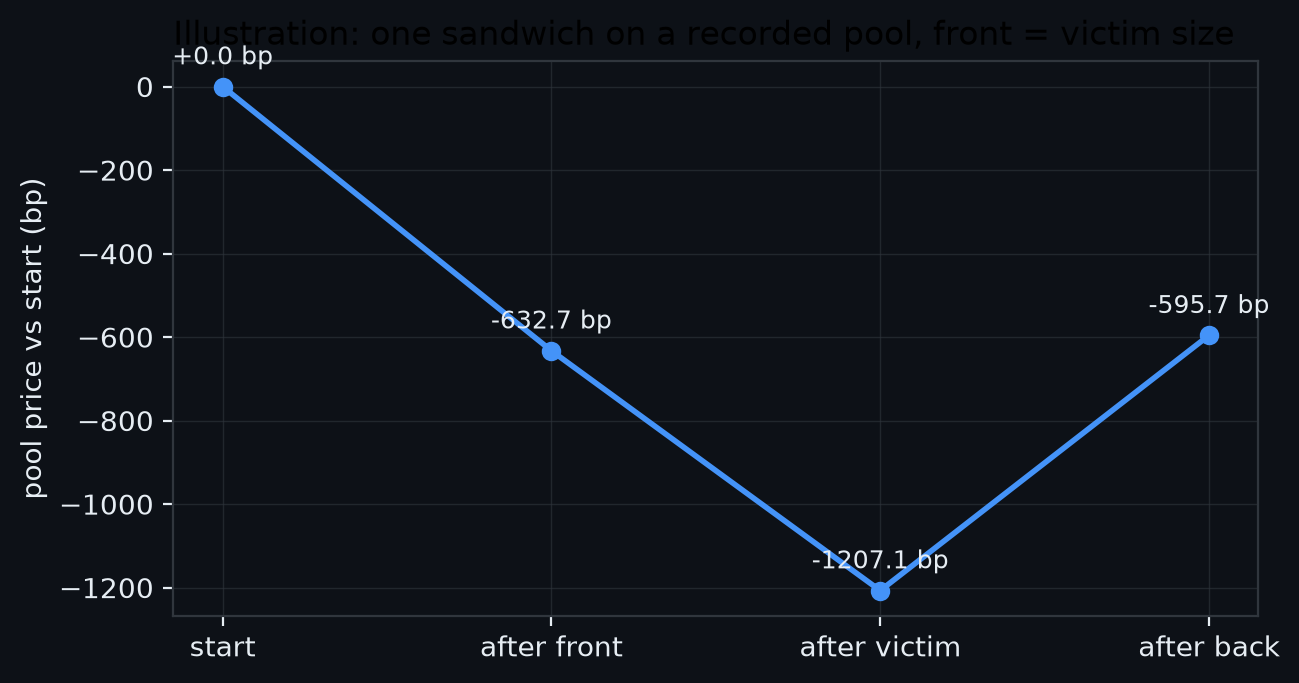
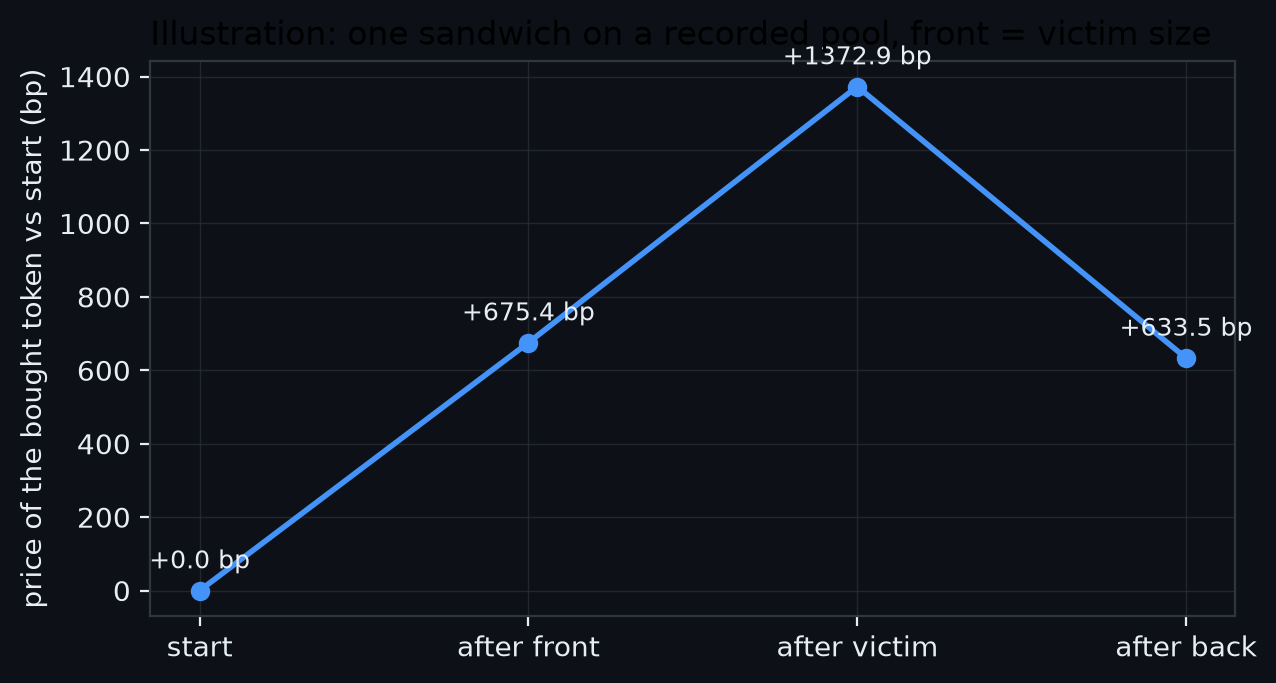
fix(figures): correct sandwich reverse-leg price in mechanism plots
Changed 5 file(s) [docs]

  - docs/research/figures/readme/path-dark.png
  - docs/research/figures/readme/path-light.png
  - docs/research/figures/readme/v3range-dark.png
  - docs/research/figures/readme/v3range-light.png
  - scripts/figures/mechanism.py

5 files changed, 7 insertions(+), 7 deletions(-)

diff --git a/scripts/figures/mechanism.py b/scripts/figures/mechanism.py
@@ -30,10 +30,10 @@ def sandwich_path(th: dict, name: str) -> None:
     front = victim
     x1, y1, got = _buy(x0, y0, front)
     x2, y2, _ = _buy(x1, y1, victim)
-    xb, yb, _ = _buy(y2, x2, got)  # sell the front's tokens back into the pool (reverse leg)
-    price = lambda x, y: y / x  # noqa: E731
+    yb, xb, _ = _buy(y2, x2, got)  # sell the front's tokens back into the pool (reverse leg)
+    price = lambda x, y: x / y  # noqa: E731
     labels = ["start", "after front", "after victim", "after back"]
-    px = [price(x0, y0), price(x1, y1), price(x2, y2), price(yb, xb)]
+    px = [price(x0, y0), price(x1, y1), price(x2, y2), price(xb, yb)]
     rel = [(p / px[0] - 1) * 1e4 for p in px]
     fig, ax = _frame(th)
     ax.plot(range(4), rel, color=th["a"], lw=2, marker="o")
@@ -41,7 +41,7 @@ def sandwich_path(th: dict, name: str) -> None:
         ax.annotate(f"{r:+.1f} bp", (i, r), textcoords="offset points", xytext=(0, 8),
                     ha="center", color=th["fg"], fontsize=9)
     ax.set_xticks(range(4), labels)
-    ax.set_ylabel("pool price vs start (bp)")
+    ax.set_ylabel("price of the bought token vs start (bp)")
     ax.set_title("Illustration: one sandwich on a recorded pool, front = victim size", loc="left")
     fig.savefig(OUT / f"path-{name}.png", bbox_inches="tight", dpi=200)
     plt.close(fig)
@@ -49,7 +49,7 @@ def sandwich_path(th: dict, name: str) -> None:
 
 def v3_vs_v2(th: dict, name: str) -> None:
     """Price impact of a buy sized as a share of capital, V2 against V3 ranges of equal capital."""
-    shares = [10 ** (-4 + 3 * i / 200) for i in range(201)]
+    shares = [10 ** (-4 + 3.8 * i / 200) for i in range(201)]
     fig, ax = _frame(th)
     ax.plot(shares, [(1 + 2 * s) ** 2 - 1 for s in shares],
             color=th["fg"], lw=2, label="V2, full range")
@@ -59,13 +59,13 @@ def v3_vs_v2(th: dict, name: str) -> None:
         edge = liq * (pb ** 0.5 - 1)
         xs = [s for s in shares if s <= edge]
         ax.plot(xs, [(1 + s / liq) ** 2 - 1 for s in xs], color=col, lw=2, label=f"V3 range ±{width:.0%}")
-        ax.axvline(edge, color=col, ls=":", lw=1)
+        ax.plot(edge, (1 + edge / liq) ** 2 - 1, "o", color=col)
     ax.set_xscale("log")
     ax.set_yscale("log")
     ax.set_xlabel("buy size as a share of the position's capital")
     ax.set_ylabel("price impact")
     ax.legend(frameon=False, labelcolor=th["fg"], fontsize=8)
-    ax.set_title("Same capital, thinner range: more impact. Dotted: range edge (model stops)",
+    ax.set_title("Equal capital, narrower range: more depth, less impact. Dot: range edge, where the single-range model ends",
                  loc="left", fontsize=10)
     fig.savefig(OUT / f"v3range-{name}.png", bbox_inches="tight", dpi=200)
     plt.close(fig)
